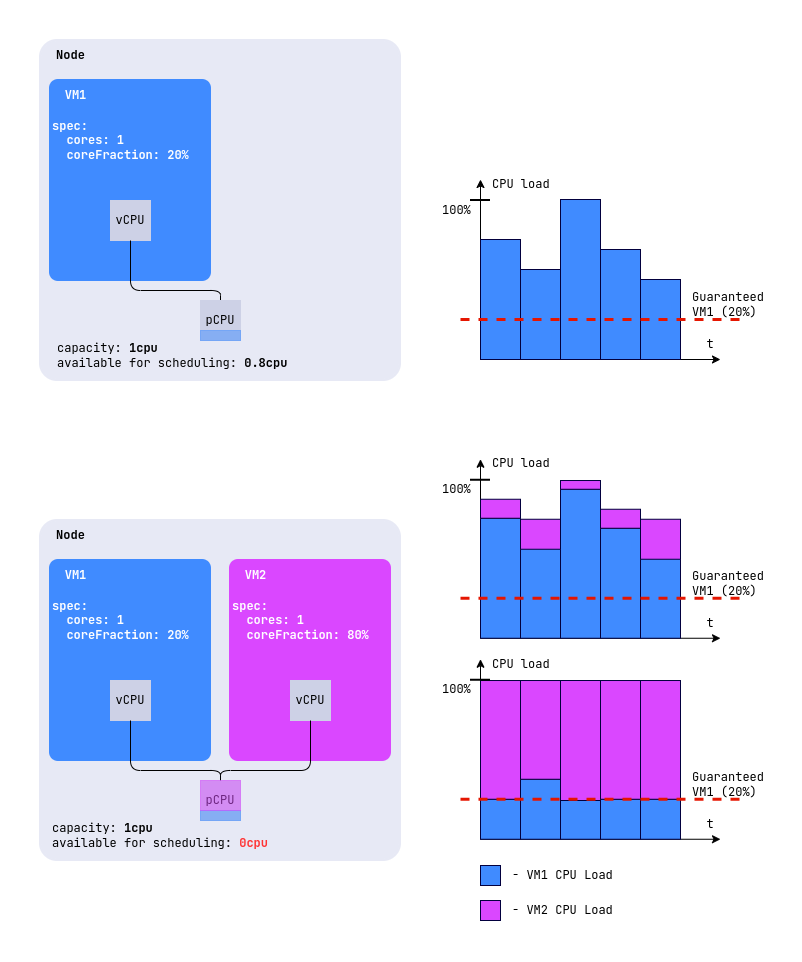
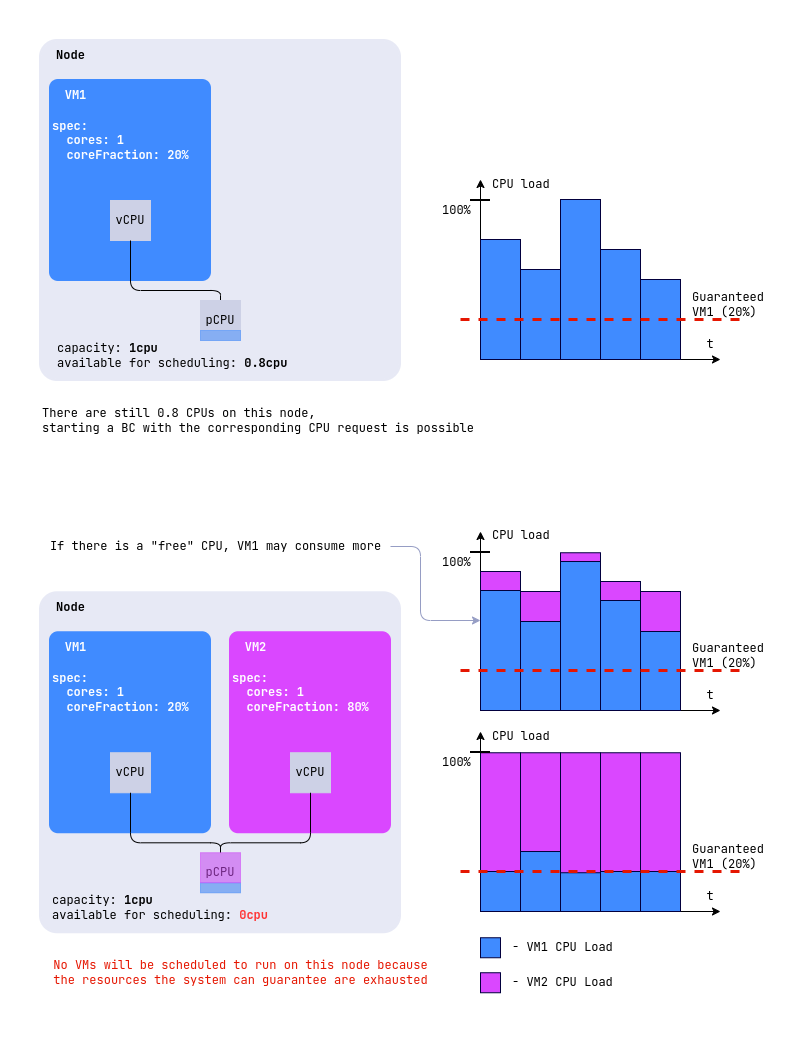
docs(module): fix overcommitment desc

diff --git a/docs/USER_GUIDE.ru.md b/docs/USER_GUIDE.ru.md
@@ -874,16 +874,36 @@ d8 k get vm fedora -o json | jq '.status.conditions[] | select(.message != "")'
 spec:
   cpu:
     cores: 2
-    coreFraction: 10%
+    coreFraction: 20%
 ```
 
 В этом случае ВМ "видит" два виртуальных ядра и гарантированно получает мощность, эквивалентную 20% одного физического ядра (0.2 CPU). Если на узле есть неиспользуемые ресурсы, ВМ может задействовать до 100% мощности двух ядер (2 CPU).
 
 {{< alert level="info">}}
-Этот подход напоминает переподписку процессорных ресурсов, где ВМ может использовать больше мощности, чем зарезервировано, если ресурсы доступны. Однако в отличие от традиционной переподписки, где нет гарантий минимальной производительности, coreFraction обеспечивает ВМ предсказуемый минимум ресурсов. Это делает работу ВМ стабильной даже при высокой нагрузке на кластер.
+Этот подход напоминает переподписку процессорных ресурсов, где ВМ может использовать больше мощности, чем зарезервировано, если ресурсы доступны. Но coreFraction при этом гарантирует ВМ запрошенный объем ресурсов. Это делает работу ВМ стабильной даже при высокой нагрузке на кластер.
 {{< /alert >}}
 
 Параметры `cores` и `coreFraction` учитываются при планировании размещения ВМ на узлах. Гарантированная мощность (минимальная доля каждого ядра) учитывается при выборе узла, чтобы он мог обеспечить необходимую производительность для всех ВМ. Если узел не располагает достаточными ресурсами для выполнения гарантий, ВМ не будет запущена на этом узле.
+
+Визуализация на примере виртуальных машин со следующими конфигурациями CPU, при размещении их на одном узле:
+
+VM1:
+
+```
+spec:
+  cpu:
+    cores: 1
+    coreFraction: 20%
+```
+
+VM2:
+
+```
+spec:
+  cpu:
+    cores: 1
+    coreFraction: 80%
+```
 
 ![](./images/vm-corefraction.ru.png)
 

diff --git a/docs/USER_GUIDE.md b/docs/USER_GUIDE.md
@@ -871,10 +871,30 @@ spec:
 In this case, the VM “sees” two virtual cores and is guaranteed to receive power equivalent to 20% of one physical core (0.2 CPUs). If there are unused resources on the node, the VM can utilize up to 100% of the power of the two cores (2 CPUs).
 
 {{< alert level="info">}}
-This approach resembles CPU resource oversubscription, where a VM can utilize more power than reserved if resources are available. However, unlike traditional oversubscription where there is no guarantee of minimum performance, coreFraction provides the VM with a predictable minimum of resources. This makes VM performance stable even under high cluster load.
+This approach is similar to overcommitment of CPU resources, where a VM can use more power than reserved if resources are available. But coreFraction guarantees the VM the requested amount of resources. This makes VM performance stable even under high cluster load.
 {{< /alert >}}
 
 The `cores` and `coreFraction` parameters are taken into account when planning VM placement on nodes. The guaranteed capacity (minimum share of each core) is considered while selecting a node so that it can provide the required performance for all the VMs. If a node does not have sufficient resources to fulfill the guarantees, a VM will not run on that node.
+
+Visualization on the example of virtual machines with the following CPU configurations, when placed on the same node:
+
+VM1:
+
+```
+spec:
+  cpu:
+    cores: 1
+    coreFraction: 20%
+```
+
+VM2:
+
+```
+spec:
+  cpu:
+    cores: 1
+    coreFraction: 80%
+```
 
 ![](./images/vm-corefraction.png)
 
